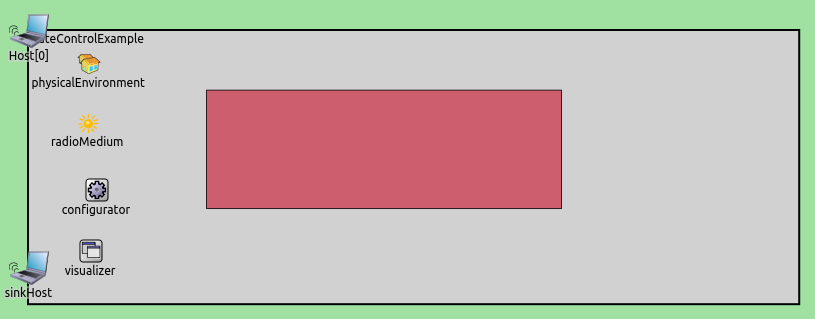
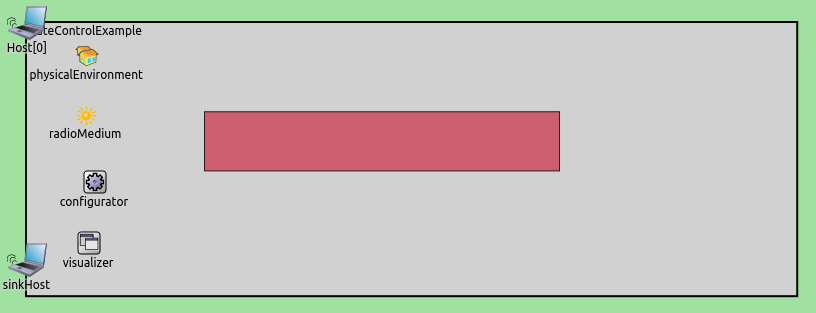
ratecontrol updates

Changed region(s): [[0.0, 0.0, 0.9816, 0.9776], [0.2454, 0.2588, 0.7055, 0.6613]]

diff --git a/samples/ratecontrol/doc/index.html b/samples/ratecontrol/doc/index.html
@@ -27,33 +27,32 @@
 	<p>
 		For example, in certain channel conditions if hosts transmitted with 54 mbps, the transmissions would not be received correctly, and the throughput would drop to zero.
 		However, transmissions with 6 mbps would be correctly receivable due to the simpler modulation (BPSK instead of 64QAM).
-		It is not obvious which rate works the best with what channel conditions. There are algorithms to find the best rate.
+		It is not obvious which rate works the best with what channel conditions. The goal of rate control algorithms is to find the best rate.
 	</p>
 
 	<p><b>Rate control algorithms</b></p>
 
-	<p>Some rate control algoithms vary the transmission rate according to packet loss. When too many packets are lost (ie. the ACK for them doesn't arrive) the transmission rate is lowered. When a number of packets are sent without loss, the rate is increased.
+	<p>Some rate control algorithms vary the transmission rate according to packet loss. When too many packets are lost (ie. the ACK for them doesn't arrive) the transmission rate is lowered. When a number of packets are sent without loss, the rate is increased.
 	</p>
 
-	<p>INET has different rate control algoritm models, like <tt>ARFRateControl</tt>, <tt>AARFRateControl</tt> and
+	<p>INET has different rate control models, like <tt>ARFRateControl</tt>, <tt>AARFRateControl</tt> and
 		<tt>OnoeRateControl</tt>.
 	</p>
 
 	<p><b>The network</b></p>
 
 	<p>Hosts are placed on the edge of the playground. During the simulation, they move along the edge of the
-		playground with different speed, while <i>Host[0]</i> sends UDP packets to <i>sinkHost</i>. There is an
-		obstacle in the middle of the playground. The line of
+		playground with different speed, while <i>Host[0]</i> sends UDP packets to <i>sinkHost</i>. There is a forest
+		 in the middle of the playground, acting as an obstacle. The line of
 		transmission intersects the obstacle at certain times, which degrades transmissions.
 	</p>
 
-	<p><center><img src="network2.png"></center></p>
+	<p><center><img src="network.png"></center></p>
 
 	<p><b>Configuration</b></p>
 
 	<p>
-		The two hosts are configured to move along the edges of the playground at different speeds, so the distance
-		between them varies. Host[0] is configured to saturate the channel with UDP traffic when using the fastest
+		Host[0] is configured to saturate the channel with UDP traffic when using the fastest
 		mode, 54 mbps. This way the maximum throughput can be measured.
 	</p>
 
@@ -84,7 +83,7 @@
 		24 mbps when the transmissions are not obstructed by the forest. It decreases to zero when the forest gets between the hosts.
 		In the other configuraton in which the hosts use rate control, the rate control algorithm varies the rate when transmissions
 		go through the obstacle. The rate is switched rapidly, which looks like if there were multiple levels on the graph. 
-		Some transmissions can still be received correctly even though they go through the forest, the throughput decreases but at first its
+		Some transmissions can still be received correctly even though they go through the forest. The throughput decreases at first, its
 		not zero. There are intervals where it decreases to zero, and the rate is set to the lowest level. Throughput and nominal data rate for the two scenarios can be compared on the following charts.
 	</p>
 
